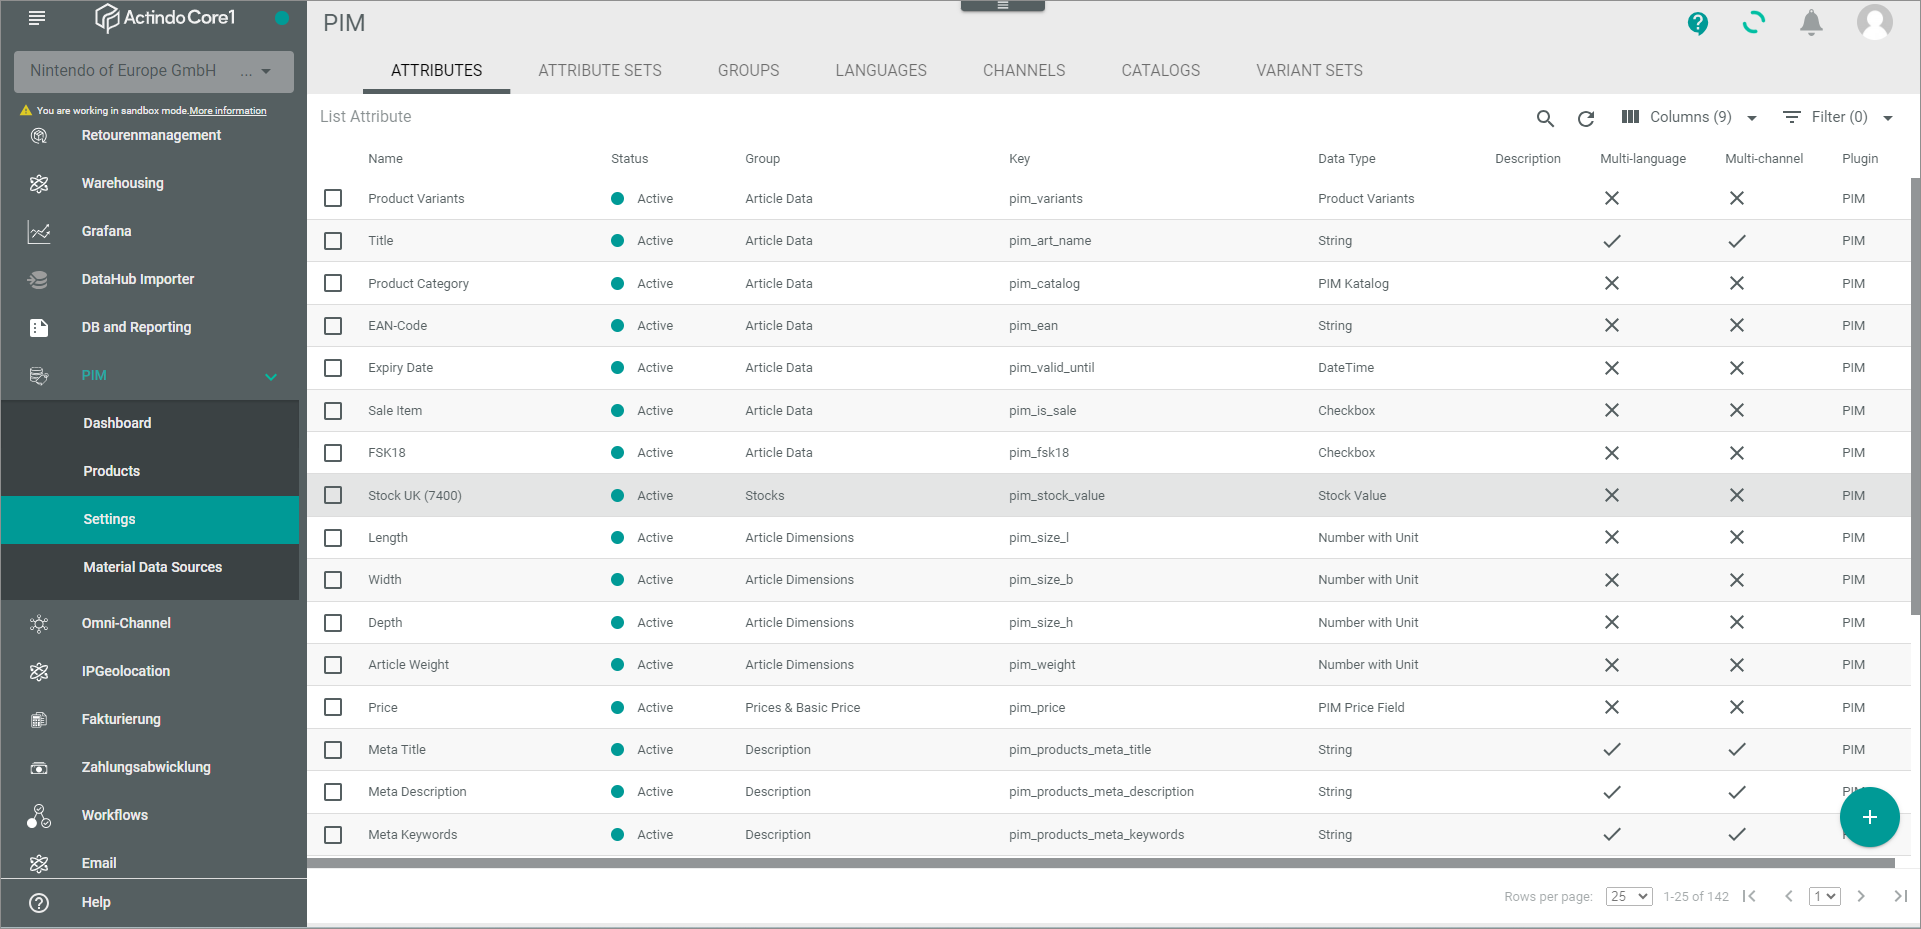
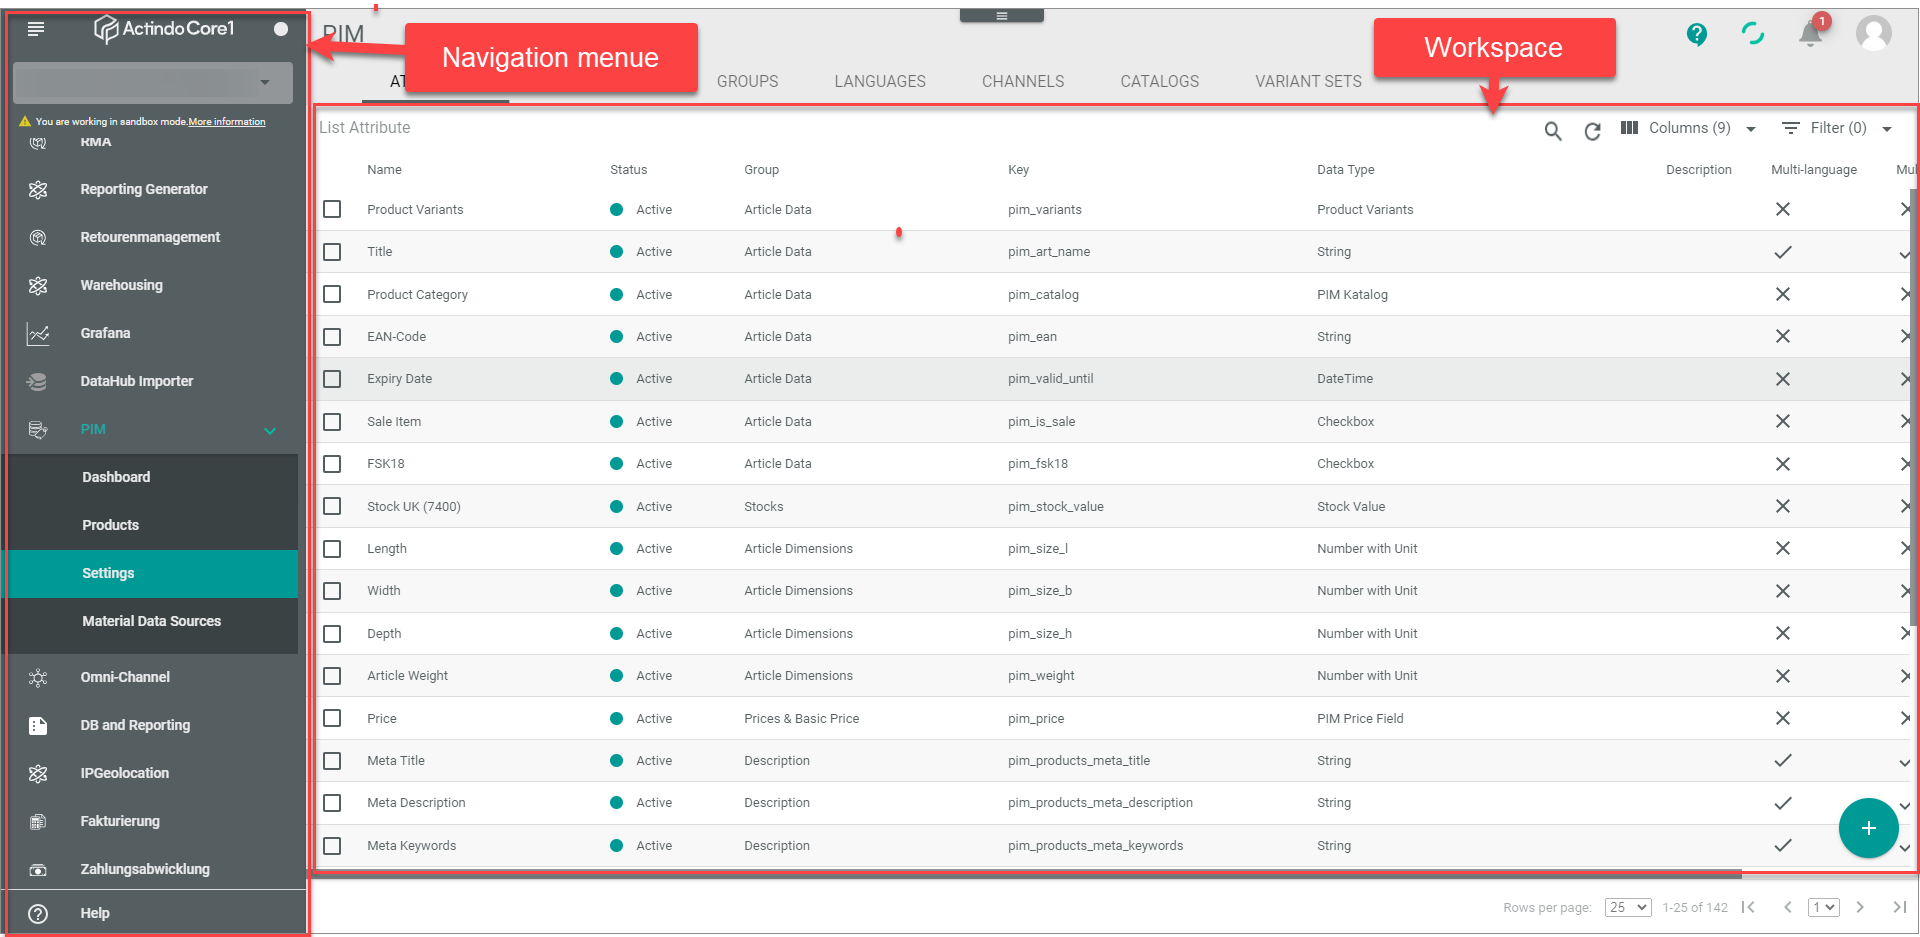
ACD-839
Review

diff --git a/Core1Platform/UsingDocumentation/01_Navigation.md b/Core1Platform/UsingDocumentation/01_Navigation.md
@@ -3,17 +3,17 @@
 The Actindo documentation offers a lot of ways to navigate between module documentations, to navigate within a document, and to navigate between topics within a module/plugin documentation.
 
 
-## Open the Actindo documentation site
+## Open the Actindo Documentation home page
 
+You can access the *Actindo Documentation* home page via the *Actindo* home page or directly via the *Actindo Core1 Platform*. 
 
 ### Open the site via the Actindo home page
 
-You can open the Actindo documentation site via the Actindo home page. Alternatively, you can open the Actindo documentation site directly under the following link: <a href="https://docs.actindo.com/en" target="_blank">https://docs.actindo.com/en</a>.
-
+You can open the *Actindo Documentation* home page in the *Actindo* home page via the *Resources* tab. Alternatively, you can open it directly under the following link: <a href="https://docs.actindo.com/en" target="_blank">https://docs.actindo.com/en</a>.
 
 #### Prerequisites
-- You have internet access.
 
+- You have internet access.
 
 #### Procedure
 
@@ -36,17 +36,18 @@ You can open the Actindo documentation site via the Actindo home page. Alternati
 
 4. Select the module documentation you want to read. To do this, click the corresponding item.   
     Alternatively, you can open the last articles you have visited before. To do this, click the relevant article in the *Go to your last visited articles* section on the right.   
+
     >[Info] If you have opened a module documentation, you can always return to the main documentation page by clicking the Actindo logo.
 
 
 
 ### Open the site via the Actindo Core1 Platform
 
-You can open the Actindo documentation site directly from the *Actindo Core1 Platform* user interface.
+You can open the *Actindo Documentation* home page directly from the *Actindo Core1 Platform* user interface.
 
 #### Prerequisites
-- You are logged in the *Actindo Core1 Platform*.
 
+- You are logged in the *Actindo Core1 Platform*.
 
 #### Procedure
 
@@ -55,8 +56,8 @@ You can open the Actindo documentation site directly from the *Actindo Core1 Pla
 ![Actindo Core1 Platform](../../Assets/Screenshots/Core1Platform/UsingDocumentation/DocumentationHelpLink.png "[Actindo Core1 Platform]")
 
 1. In the navigation menu at, click the ![Help](../../Assets/Icons/Help.png "[Help]") [Help] button down left.   
-The *Actindo Documentation* site is opened in a new window.   
-![Actindo Documentation site](../../Assets/Screenshots/Core1Platform/UsingDocumentation/DocumentationsSite.png "[Actindo Documentation site]")
+    The *Actindo Documentation* home page is opened in a new window.   
+    ![Actindo Documentation home page](../../Assets/Screenshots/Core1Platform/UsingDocumentation/DocumentationsSite.png "[Actindo Documentation home page]")
 
 2. Select the module documentation you want to read. To do this, click the corresponding item.   
     Alternatively, you can open the last articles you have visited before. To do this, click the relevant article in the *Go to your last visited articles* section on the right.   
@@ -66,24 +67,25 @@ The *Actindo Documentation* site is opened in a new window.
 
 
 ## Search the documentation
+
 A full text search is available for the Actindo documentation. You can search the complete documentation as well as search only the selected module documentation.
 
 
 ### Search the whole Actindo documentation
-Ae full text search is available that starts a search over the whole Actindo documentation. The search result list displays all topics containing the specified character string.
+
+A full text search is available that starts a search over the whole *Actindo* documentation. The search result list displays all topics containing the specified character string.
 
 #### Prerequisites
 - You have internet access.
-- You have opened the Actindo Documentation home page. For detailed information, see [Opening the site via the Actindo home page](#opening-the-site-via-the-actindo-home-page) or [Opening the site via the Actindo Core1 Platform](#opening-the-site-via-the-actindo-core1-platform).
+- You have opened the *Actindo Documentation* home page. For detailed information, see [Opening the site via the Actindo home page](#opening-the-site-via-the-actindo-home-page) or [Opening the site via the Actindo Core1 Platform](#opening-the-site-via-the-actindo-core1-platform).
 
 #### Procedure  
 
-*Actindo Documentation site*
-![Actindo Documentation site](../../Assets/Screenshots/Core1Platform/UsingDocumentation/DocumentationsSiteSearch.png "[Actindo Documentation site]")
+*Actindo Documentation home page*
 
-1. In the *Search Actindo documentation* field in the *Hi, how can we help you?* section, enter the search characters of the subject you want to search for.   
+![Actindo Documentation home page](../../Assets/Screenshots/Core1Platform/UsingDocumentation/DocumentationsSiteSearch.png "[Actindo Documentation home page]")
 
-    > [Info] If you want to clear the search, click the ![Clear](../../Assets/Icons/Cross02.png "[Clear]") icon on the right side of the search field. 
+1. In the *Search Actindo documentation* field in the *Hi, how can we help you?* section, enter the search characters of the subject you want to search for. 
 
 2. Press **Enter**.   
     A list with the search results is displayed.   
@@ -92,11 +94,11 @@ Ae full text search is available that starts a search over the whole Actindo doc
    - Second line: Topic section in which the search term is included.
    - Third line: Row in which the search term is included.   
 
-       ![Actindo Documentation site](../../Assets/Screenshots/Core1Platform/UsingDocumentation/DocumentationsSiteSearchResult.png "[Actindo Documentation site]")
+       ![Actindo Documentation home page](../../Assets/Screenshots/Core1Platform/UsingDocumentation/DocumentationsSiteSearchResult.png "[Actindo Documentation home page]")
 
 3. Check the list and select the topic in which you want to find the required information.
 
-    > [Info] If you want to clear the search, click the ![Clear](../../Assets/Icons/Cross02.png "[Clear]") icon on the right side of the search field. 
+    > [Info] If you want to clear the search, click the ![Clear](../../Assets/Icons/Cross02.png "[Clear]") icon on the right side of the search field.  
 
 
 ### Search the module/plugin documentation 
@@ -104,15 +106,15 @@ Ae full text search is available that starts a search over the whole Actindo doc
 A full text search is available that starts a search over the module/plugin documentation that you have recently opened. The search result list displays all topics containing the specified character string.   
 
 #### Prerequisites
-- You have opened the Actindo Documentation site. For detailed information, see [Opening the site via the Actindo home page](#opening-the-site-via-the-actindo-home-page) or [Opening the site via the Actindo Core1 Platform](#opening-the-site-via-the-actindo-core1-platform).  
+- You have opened the *Actindo Documentation* home page. For detailed information, see [Opening the site via the Actindo home page](#opening-the-site-via-the-actindo-home-page) or [Opening the site via the Actindo Core1 Platform](#opening-the-site-via-the-actindo-core1-platform).  
 
 #### Procedure
 
-*Actindo Documentation site > Select a module/plugin documentation*
+*Actindo Documentation home page > Select a module/plugin documentation*
 
 ![Actindo module documentation](../../Assets/Screenshots/Core1Platform/UsingDocumentation/ModulePageSearch.png "[Actindo module documentation]")
 
- 1. In the *Search table of content* field in the left side bar, enter the search characters of the subject you want to search for.
+ 1. In the *Search table of content* field in the left sidebar, enter the search characters of the subject you want to search for.
     The search results are directly displayed.   
 
     ![Module documentation - Search results](../../Assets/Screenshots/Core1Platform/UsingDocumentation/ModulePageSearchResult.png "[Module documentation - Search results]")
@@ -124,15 +126,18 @@ A full text search is available that starts a search over the module/plugin docu
 
 
 ## Explore related content
-The content of some topics can relate to a certain topic in the same chapter, to a topic within another chapter, or even to a topic in another module. On the documentation website, links to such topics are displayed in the *Related content* section of the left sidebar. By following these links, you can get further information on a specific subject.
+
+The content of some topics can relate to a certain topic in the same chapter, to a topic within another chapter, or even to a topic in another module. On the *Actindo Documentation* home page, links to such topics are displayed in the *Related content* section of the left sidebar. By following these links, you can get further information on a specific subject.
 
 #### Prerequisites
-- You have opened the Actindo Documentation site. For detailed information, see [Opening the site via the Actindo home page](#opening-the-site-via-the-actindo-home-page) or [Opening the site via the Actindo Core1 Platform](#opening-the-site-via-the-actindo-core1-platform).  
+
+- You have opened the *Actindo Documentation* home page. For detailed information, see [Opening the site via the Actindo home page](#opening-the-site-via-the-actindo-home-page) or [Opening the site via the Actindo Core1 Platform](#opening-the-site-via-the-actindo-core1-platform).  
 - You have opened a module/plugin documentation
 
 
 #### Procedure
-*Actindo Documentation site > Select a module/plugin documentation*
+
+*Actindo Documentation home page > Select a module/plugin documentation*
 
 ![Module documentation - Related content](../../Assets/Screenshots/Core1Platform/UsingDocumentation/ModulePageRelatedContent.png "[Module documentation - Related content]")
  
@@ -144,15 +149,16 @@ The content of some topics can relate to a certain topic in the same chapter, to
 
 
 ## Use navigation within a topic
+
 If you are currently reading a topic, you have additional options to move within the topic or within the module/plugin documentation.
 
 #### Prerequisites
 - You have opened a module/plugin documentation.   
-For detailed information, see [Opening the site via the Actindo home page](#opening-the-site-via-the-actindo-home-page) or [Opening the site via the Actindo Core1 Platform](#opening-the-site-via-the-actindo-core1-platform). 
+    For detailed information, see [Opening the site via the Actindo home page](#opening-the-site-via-the-actindo-home-page) or [Opening the site via the Actindo Core1 Platform](#opening-the-site-via-the-actindo-core1-platform). 
 
 #### Procedure
 
-*Actindo Documentation site > Select a module/plugin documentation*
+*Actindo Documentation home page > Select a module/plugin documentation*
 
 ![Navigation options within a topic](../../Assets/Screenshots/Core1Platform/UsingDocumentation/NavigationOptionTopic.png "[Navigation options within a topic]")
 
@@ -173,7 +179,7 @@ If you want to study a screenshot in detail, you can open it in full screen mode
 
 #### Procedure
 
-*Actindo Documentation site > Select a module/plugin documentation*
+*Actindo Documentation home page > Select a module/plugin documentation*
 
 ![Actindo module documentation](../../Assets/Screenshots/Core1Platform/UsingDocumentation/ModulePage.png "[Actindo module documentation]")
 

diff --git a/Core1Platform/UsingDocumentation/02_Structure.md b/Core1Platform/UsingDocumentation/02_Structure.md
@@ -3,7 +3,7 @@
 The *Actindo Core1 Platform* documentation pursues the goal that you can quickly find your way around the information that we provide you on the modules or plugins. For this reason, the documentation follows a strong structure so that you can quickly find the information you require.   
 This topic provides you with a description of each section and the content you can expect there.
 
-> [Info] The *Get started* documentation you currently read does not follow these principles, because too much different subjects are described here.  
+> [Info] The *Get started* documentation you currently read does not follow these principles strictly, because too much different subjects are described here.  
 
 The Actindo Core1 module/plugin documentation has the following structure, whereby each section starts with a TOC document giving an overview of its content:
 
@@ -11,7 +11,7 @@ The Actindo Core1 module/plugin documentation has the following structure, where
 
 ## Overview
 
-The overview chapter provides you with general information on the module/plugin. It describes the overall purpose of the module/plugin as well as the main features. The overview chapter is divided into the following parts:   
+The overview chapter provides you with general information on the module/plugin. It describes the overall purpose of the module/plugin as well as the key features. The overview chapter is divided into the following parts:   
 
 - **General information**   
    This part describes the overall benefits of the module/plugin as well as the version on which the present documentation is based.   
@@ -36,14 +36,16 @@ This section describes the preparatory procedures that are to be executed or set
 
 ## Operation
 
-This section describes all executing procedures when using the module/plugin. For example, this section contains procedure descriptions of managing specific module objects such as offers, products, or templates.
+This section describes all executing procedures when using the module/plugin. For example, this section contains procedure descriptions of managing specific module objects such as offers, products, or templates. Each procedure starts with a path that replaces the first step of the procedure.
+
+![Procedure](../../Assets/Screenshots/Core1Platform/UsingDocumentation/DocumentationPathProcedure.png "[Procedure]")
 
 
 
 ## Troubleshooting
 
 This section describes issues and errors that can occur during running the module/plugin. It provides you with workable solutions.   
-This section might not be included in all module/plugin documentation, because often no general issues or errors are known that are valid for all Actindo customers.
+This section might not be included in all module/plugin documentation, because often no general issues or errors are known that are valid for all Actindo customers. Each procedure starts with a path that replaces the first step of the procedure.
 
 
 

diff --git a/Core1Platform/UsingDocumentation/04_GeneralUITerminology.md b/Core1Platform/UsingDocumentation/04_GeneralUITerminology.md
@@ -33,17 +33,17 @@ A menu entry contains one or several tabs that are displayed in the header of th
 A side bar is a bar that is displayed on one side of current view in the workspace. It may contain different content. In contrast to a side menu, the side bar does not contain a menu.
 
 **Toolbar**   
-A toolbar is displayed when you make a selection. The bar contains different buttons to process the currently selected item. Depending on the sort of toolbar, the toolbar might be specified in the documentation, for example as an editing toolbar to edit the selection.
+A toolbar is displayed when you select an item. The toolbar contains different buttons to process the currently selected item. Depending on the sort of toolbar, the toolbar might be specified in the documentation, for example as an editing toolbar to edit the selection.
 
 **List**   
-A list describes a listing of items in a table-like environment. Each item is listed in a row and are specified by different values in the columns. In contrast to a table, the list has not a table border that is firmly separated from the rest of the workspace.   
-For more information, see [Work with lists](../UsingCore1/06_WorkWithLists.md).
+A list describes a listing of items in a table-like environment. Each item is listed in a row and specified by different values in the columns. In contrast to a table, the list has not a table border that is firmly separated from the rest of the workspace.   
+For more information, see [Work with lists](../UsingCore1/04_WorkWithLists.md).
 
 
 
 ## Further workspace elements
 
-![Further workspace elements](../../Assets/Screenshots/Core1Platform/UsingDocumentation/FurtherWorkspaceElementspng.png "[Further workspace elements]")
+![Further workspace elements](../../Assets/Screenshots/Core1Platform/UsingDocumentation/FurtherWorkspaceElements.png "[Further workspace elements]")
 
 **View**   
 The view describes the part in the workspace below the tabs. A tab may contain different views. The view name is indicated in the upper left corner of the view.

diff --git a/Core1Platform/UsingDocumentation/00_UsingDocumentation.md b/Core1Platform/UsingDocumentation/00_UsingDocumentation.md
@@ -3,7 +3,7 @@
 In this part of the *Actindo Core1 Platform* documentation, you will find the following chapters:
 
 - [Move around in the Actindo documentation ](./01_Navigation.md "Move around in the Actindo documentation")   
-    - [Open the Actindo documentation site ](./01_Navigation.md#open-the-actindo-documentation-site "Open the Actindo Documentation site")   
+    - [Open the Actindo documentation site ](./01_Navigation.md#open-the-actindo-documentation-home-page "Open the Actindo Documentation home page")   
          - [Open the site via the Actindo home page](./01_Navigation.md#open-the-site-via-the-actindo-home-page "Open the site via the Actindo home page")   
          - [Open the site via the Actindo Core1 Platform](./01_Navigation.md#open-the-site-via-the-actindo-core1-platform "Open the Actindo Documentation site via the Actindo Core1 Platform")  
     - [Search the documentation](./01_Navigation.md#search-the-documentation "Search the documentation")   
